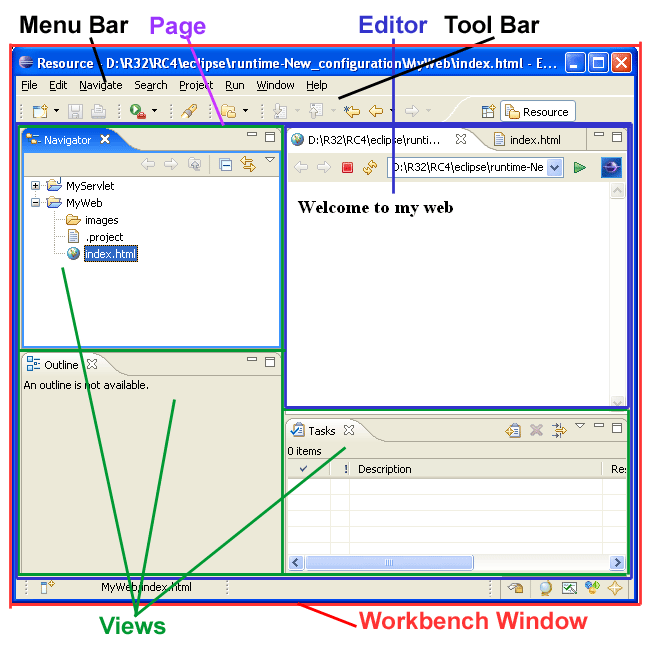
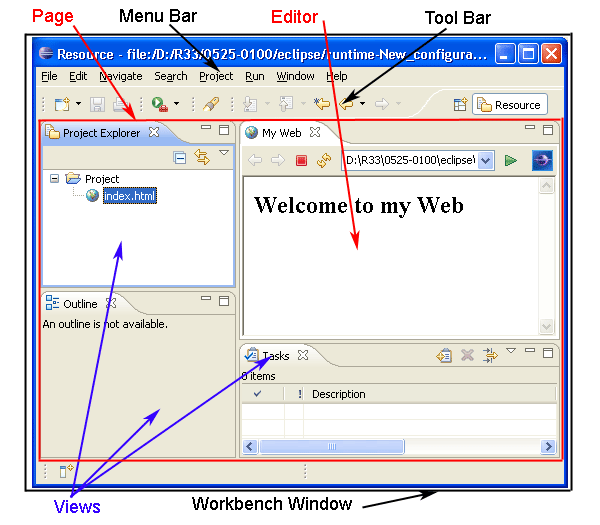
Fix for  Bug 190314 General out of date isv doc

diff --git a/bundles/org.eclipse.platform.doc.isv/guide/workbench_structure.htm b/bundles/org.eclipse.platform.doc.isv/guide/workbench_structure.htm
@@ -67,13 +67,12 @@ Views and editors</a></H3>
 Views and editors are where we move beyond implementation details into some common plug-in programming. When you add a visual component to the workbench, you must decide whether you want to implement a view or
 an editor. How do you decide this?</P>
 <ul>
-  <li>A <b>view</b> is typically used to navigate a hierarchy of information,
-    open an editor, or display properties for the active editor.&nbsp; For
-    example, the <b>navigator</b> view allows you to navigate the workspace
-    hierarchy.&nbsp; The <b>properties</b> and <b>outline</b> views show
-    information about an object in the active editor.&nbsp; Any modifications
-    that can be made in a view (such as changing a property value) are saved
-    immediately.</li>
+  <li>A <b>view</b> is typically used to navigate a hierarchy of information, 
+    open an editor, or display properties for the active editor.&nbsp; For example, 
+    the <b>project explorer</b> view allows you to navigate the workspace hierarchy.&nbsp; 
+    The <b>properties</b> and <b>outline</b> views show information about an object 
+    in the active editor.&nbsp; Any modifications that can be made in a view (such 
+    as changing a property value) are saved immediately.</li>
   <li>An <b>editor</b> is typically used to edit or browse a document or input
     object.&nbsp; Modifications made in an editor follow an open-save-close
     model, much like an external file system editor.&nbsp; The platform text

diff --git a/bundles/org.eclipse.platform.doc.isv/guide/workbench.htm b/bundles/org.eclipse.platform.doc.isv/guide/workbench.htm
@@ -52,8 +52,9 @@ active editor.</li>
 
 <h3>
 Views</h3>
-<P >
-The workbench provides several standard views that allow the user to navigate or view something of interest. For example, the resource navigator lets the user navigate the workspace and select resources.</P>
+<P > The workbench provides several standard views that allow the user to navigate 
+  or view something of interest. For example, the project explorer lets the user 
+  navigate the workspace and select resources.</P>
 
 <img src="images/navigator.png" alt="" border="0">
 

diff --git a/bundles/org.eclipse.platform.doc.isv/guide/workbench_plugin.htm b/bundles/org.eclipse.platform.doc.isv/guide/workbench_plugin.htm
@@ -29,7 +29,7 @@ Manifest-Version: 1.0
 Bundle-ManifestVersion: 2
 Bundle-Name: %Plugin.name
 Bundle-SymbolicName: org.eclipse.ui.examples.readmetool; singleton:=true
-Bundle-Version: 3.2.0.qualifier
+Bundle-Version: 3.3.0.qualifier
 Bundle-ClassPath: readmetool.jar
 Bundle-Activator: org.eclipse.ui.examples.readmetool.ReadmePlugin
 Bundle-Vendor: %Plugin.providerName
